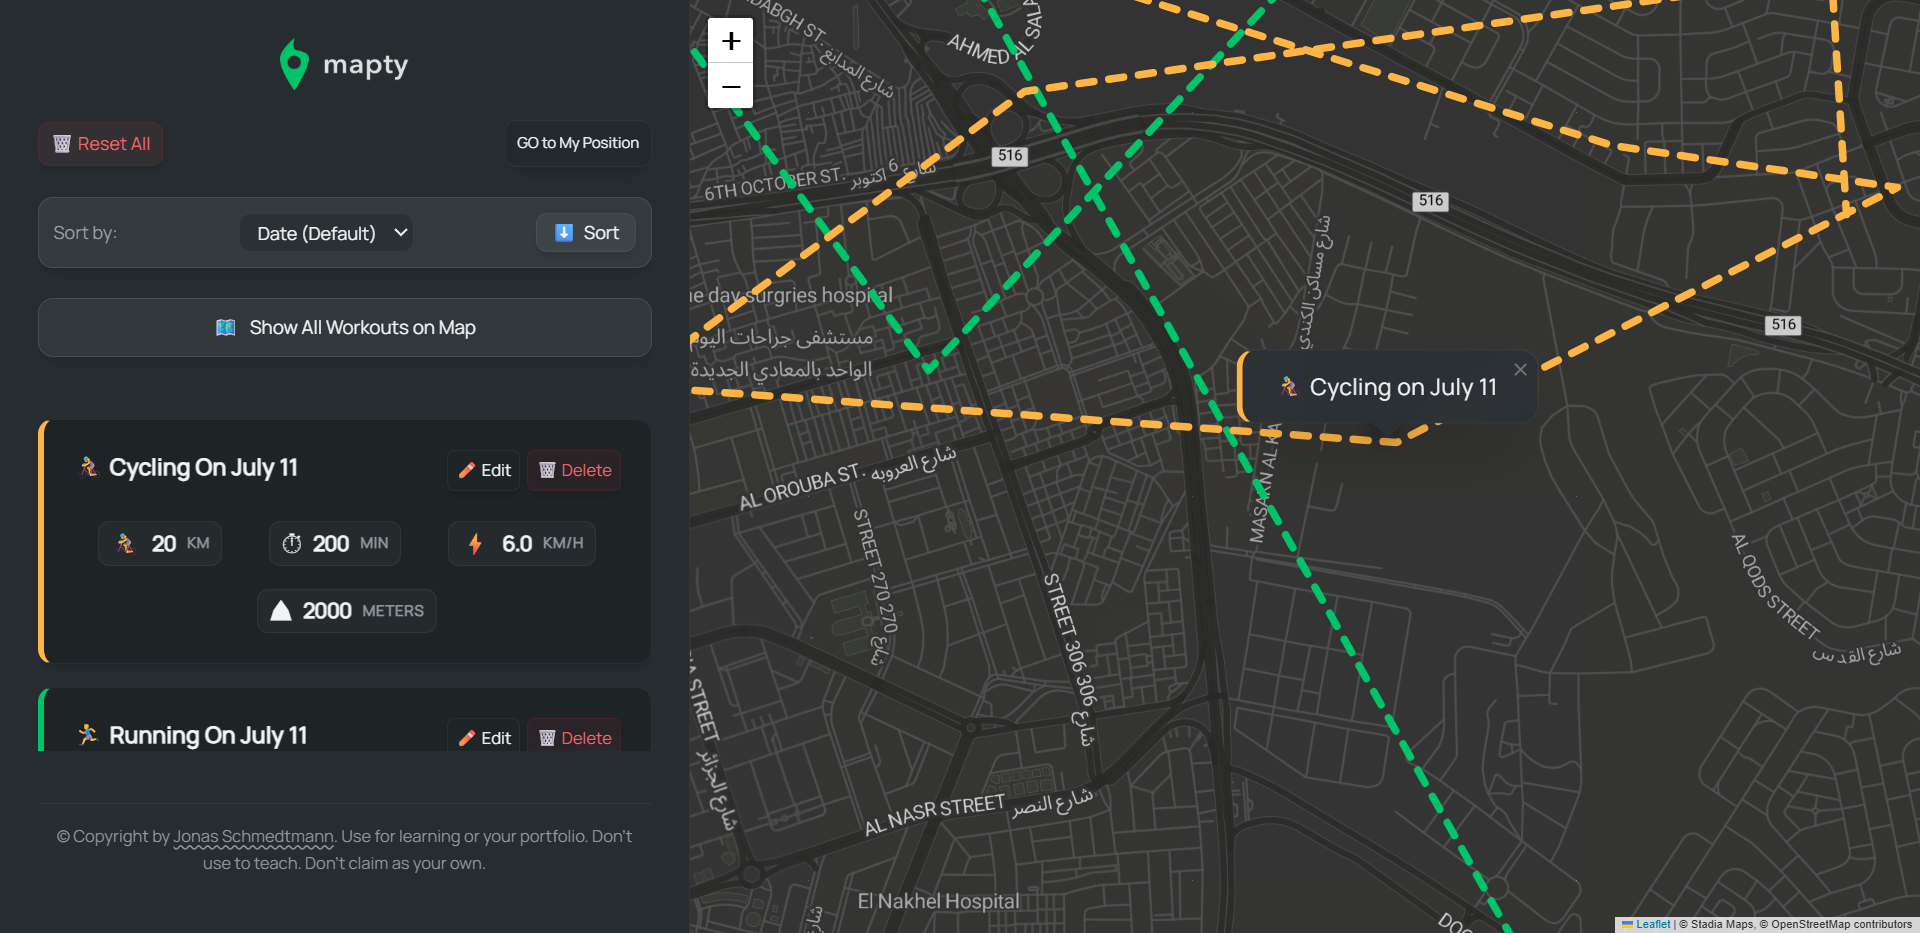
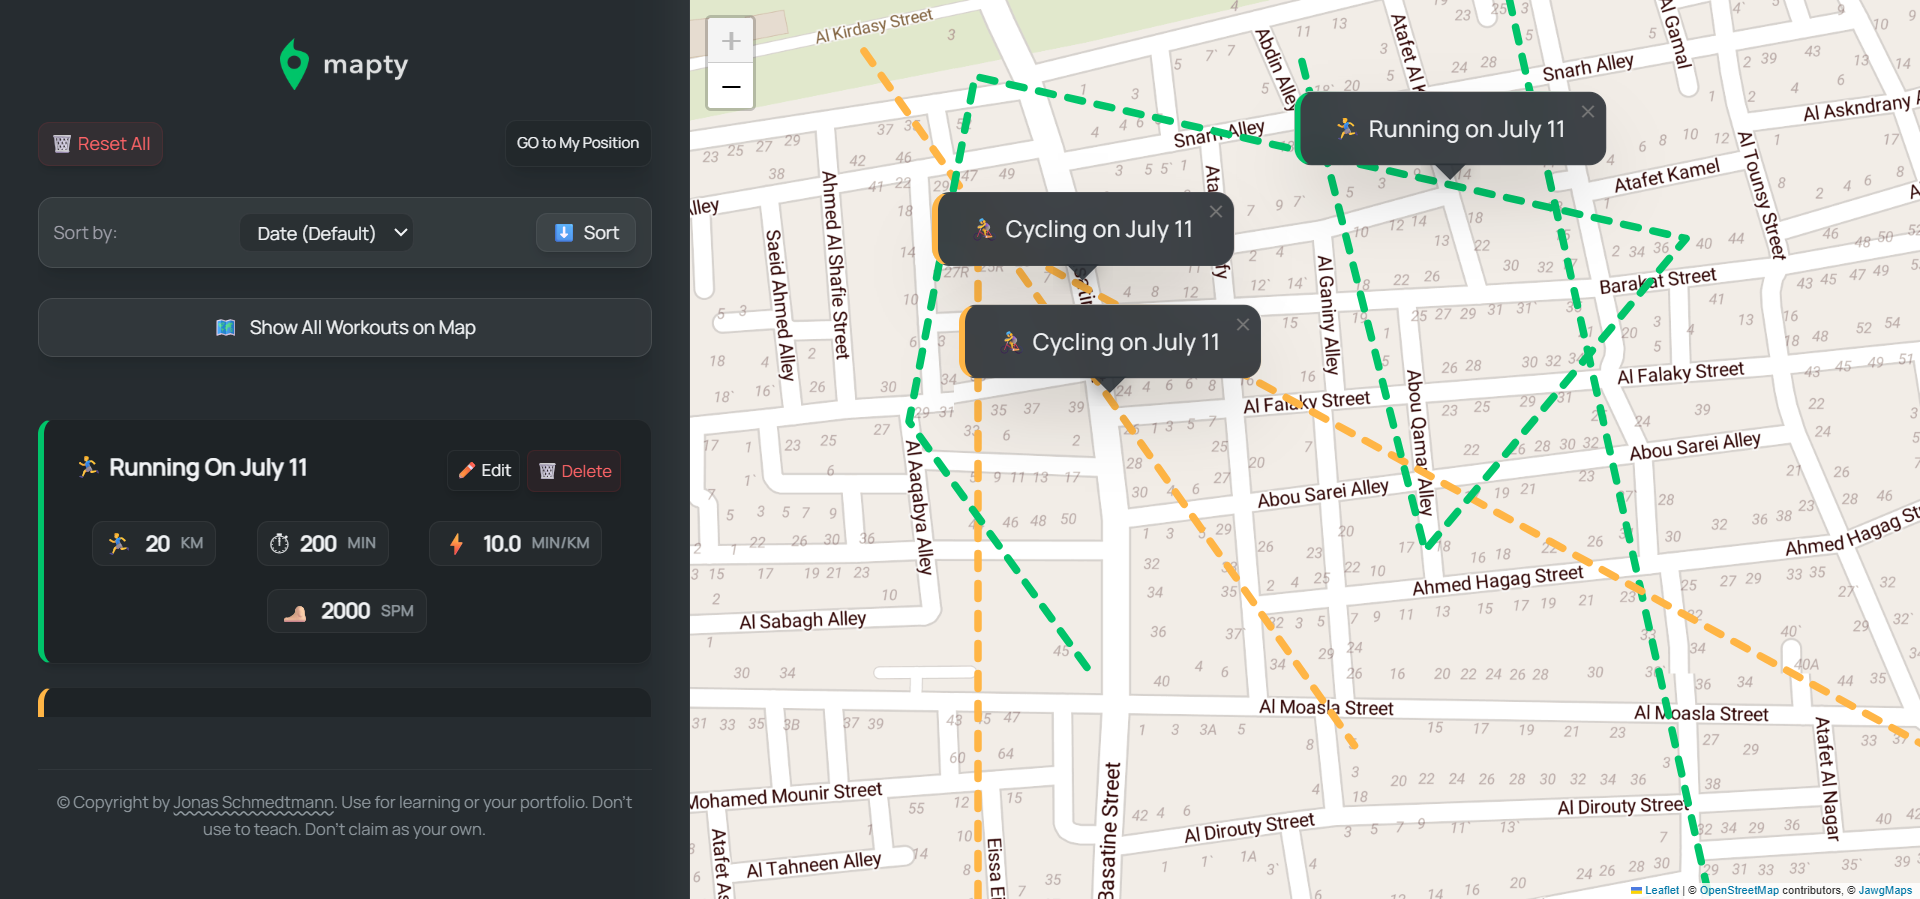
fix: switch to cartodb dark tiles to resolve production 401 error on gh-pages

diff --git a/src/script.js b/src/script.js
@@ -179,8 +179,11 @@ class App {
     const { latitude, longitude } = pos.coords;
     this.#initCoords = [latitude, longitude];
     this.#map = L.map('map').setView(this.#initCoords, this.#mapZoom);
-    L.tileLayer('https://tiles.stadiamaps.com/tiles/alidade_smooth_dark/{z}/{x}/{y}{r}.png', {
-      attribution: '© Stadia Maps, © OpenStreetMap contributors',
+    L.tileLayer('https://{s}.tile.jawg.io/jawg-lagoon/{z}/{x}/{y}{r}.png?access-token={accessToken}', {
+      attribution:
+        '&copy; <a href="http://www.openstreetmap.org/copyright">OpenStreetMap</a> contributors, &copy; <a href="https://www.jawg.io/">JawgMaps</a>',
+      subdomains: 'abcd',
[1 lines of base64/hex data omitted]
     }).addTo(this.#map);
     L.marker(this.#initCoords)
       .addTo(this.#map)
@@ -440,7 +443,7 @@ class App {
   }
   #LivePolyLineDraw() {
     const polylineOptions = {
-      color: '#fff',
+      color: '#000',
       weight: 5,
       opacity: 0.7,
       lineCap: 'round',
